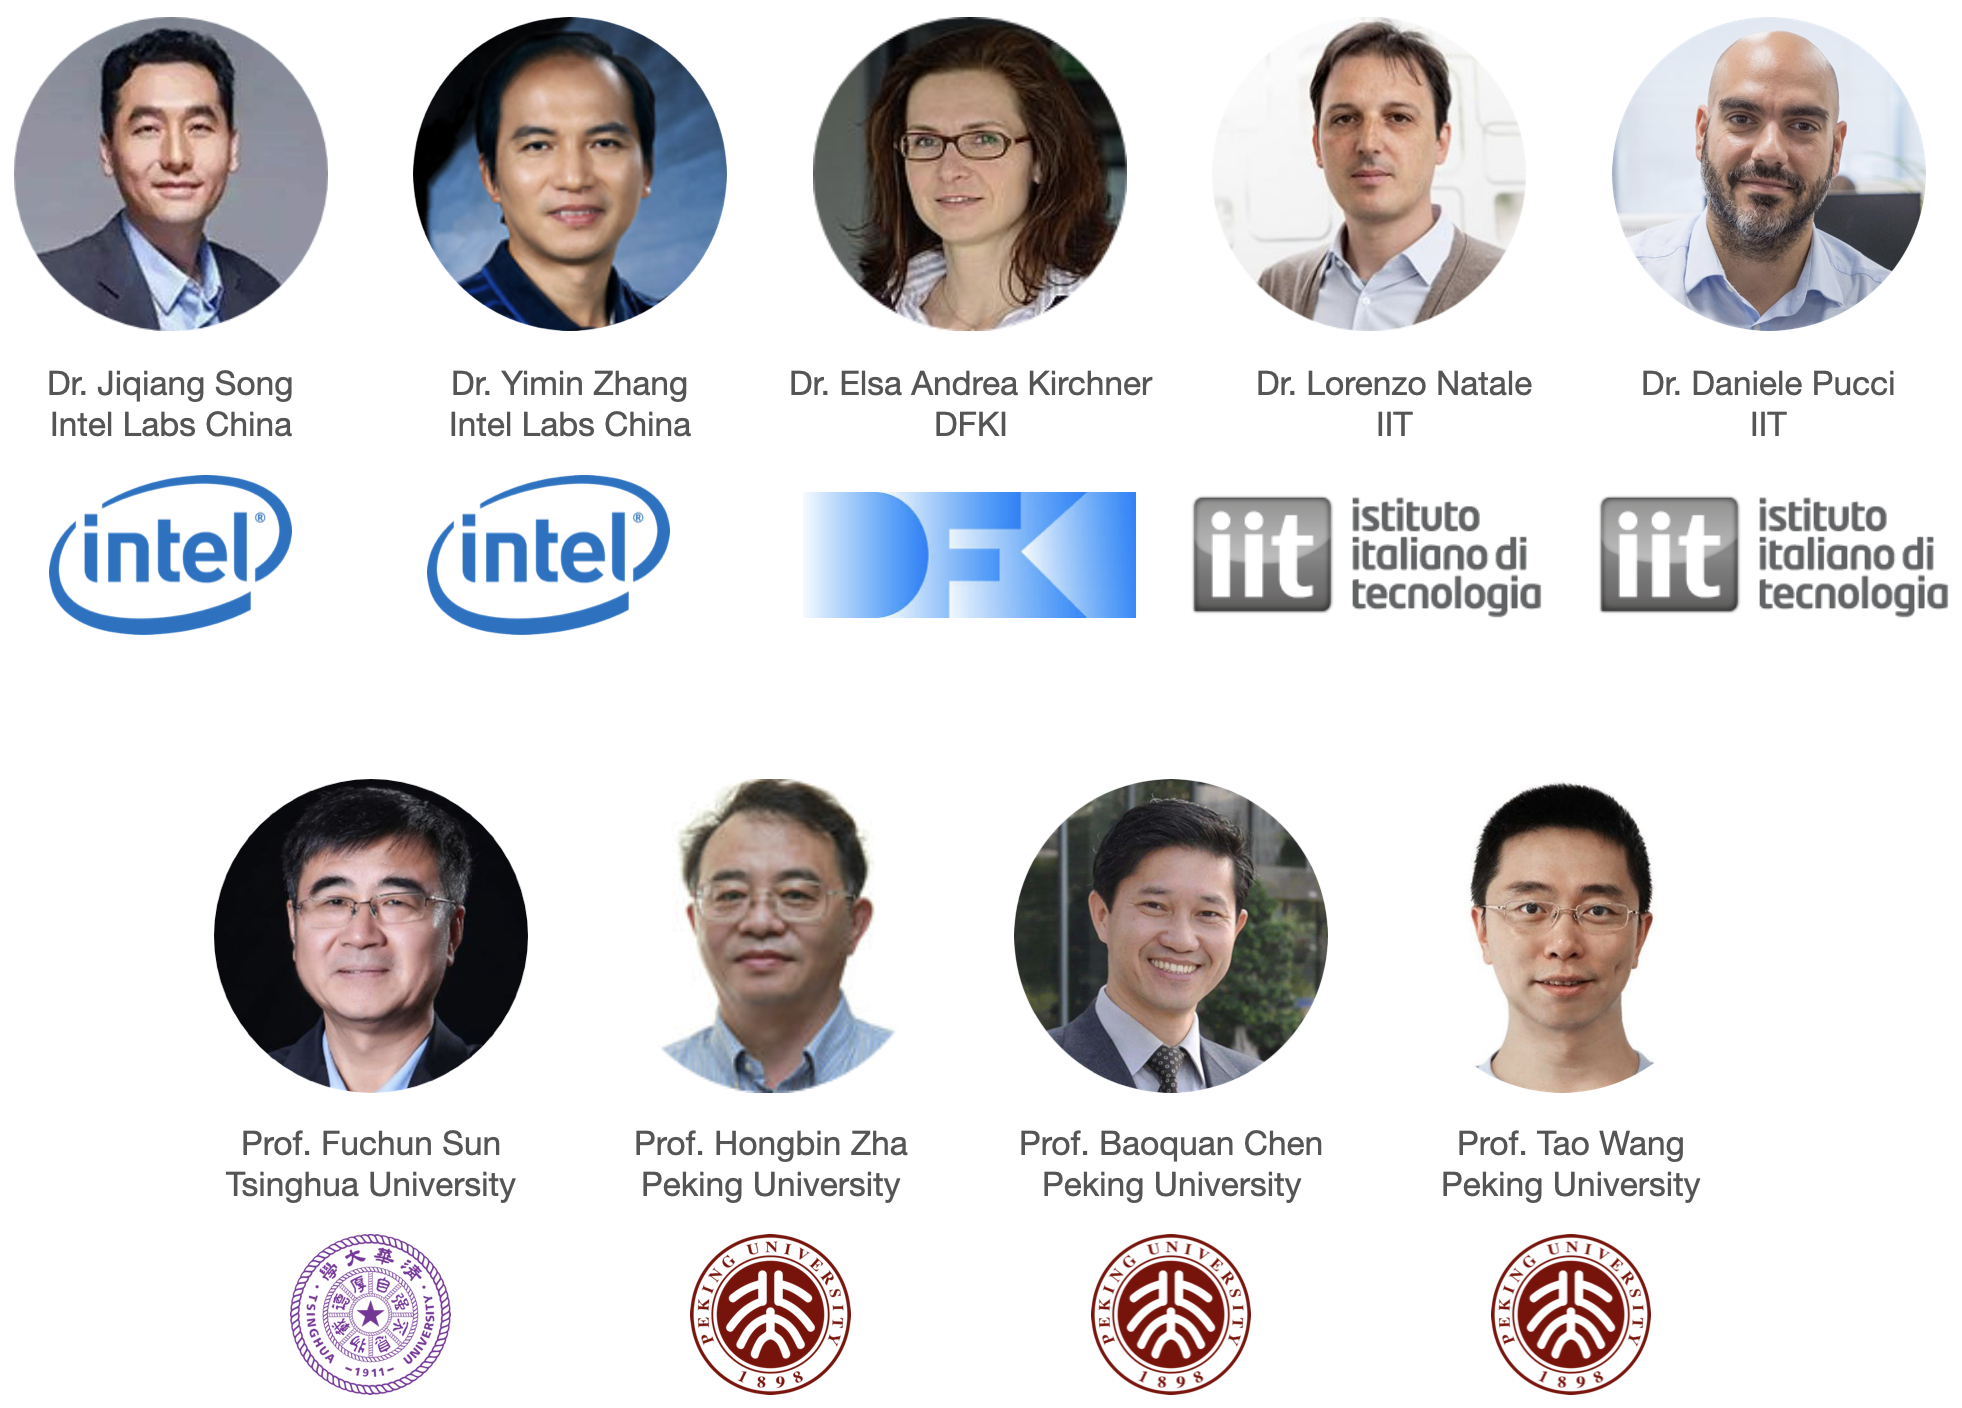
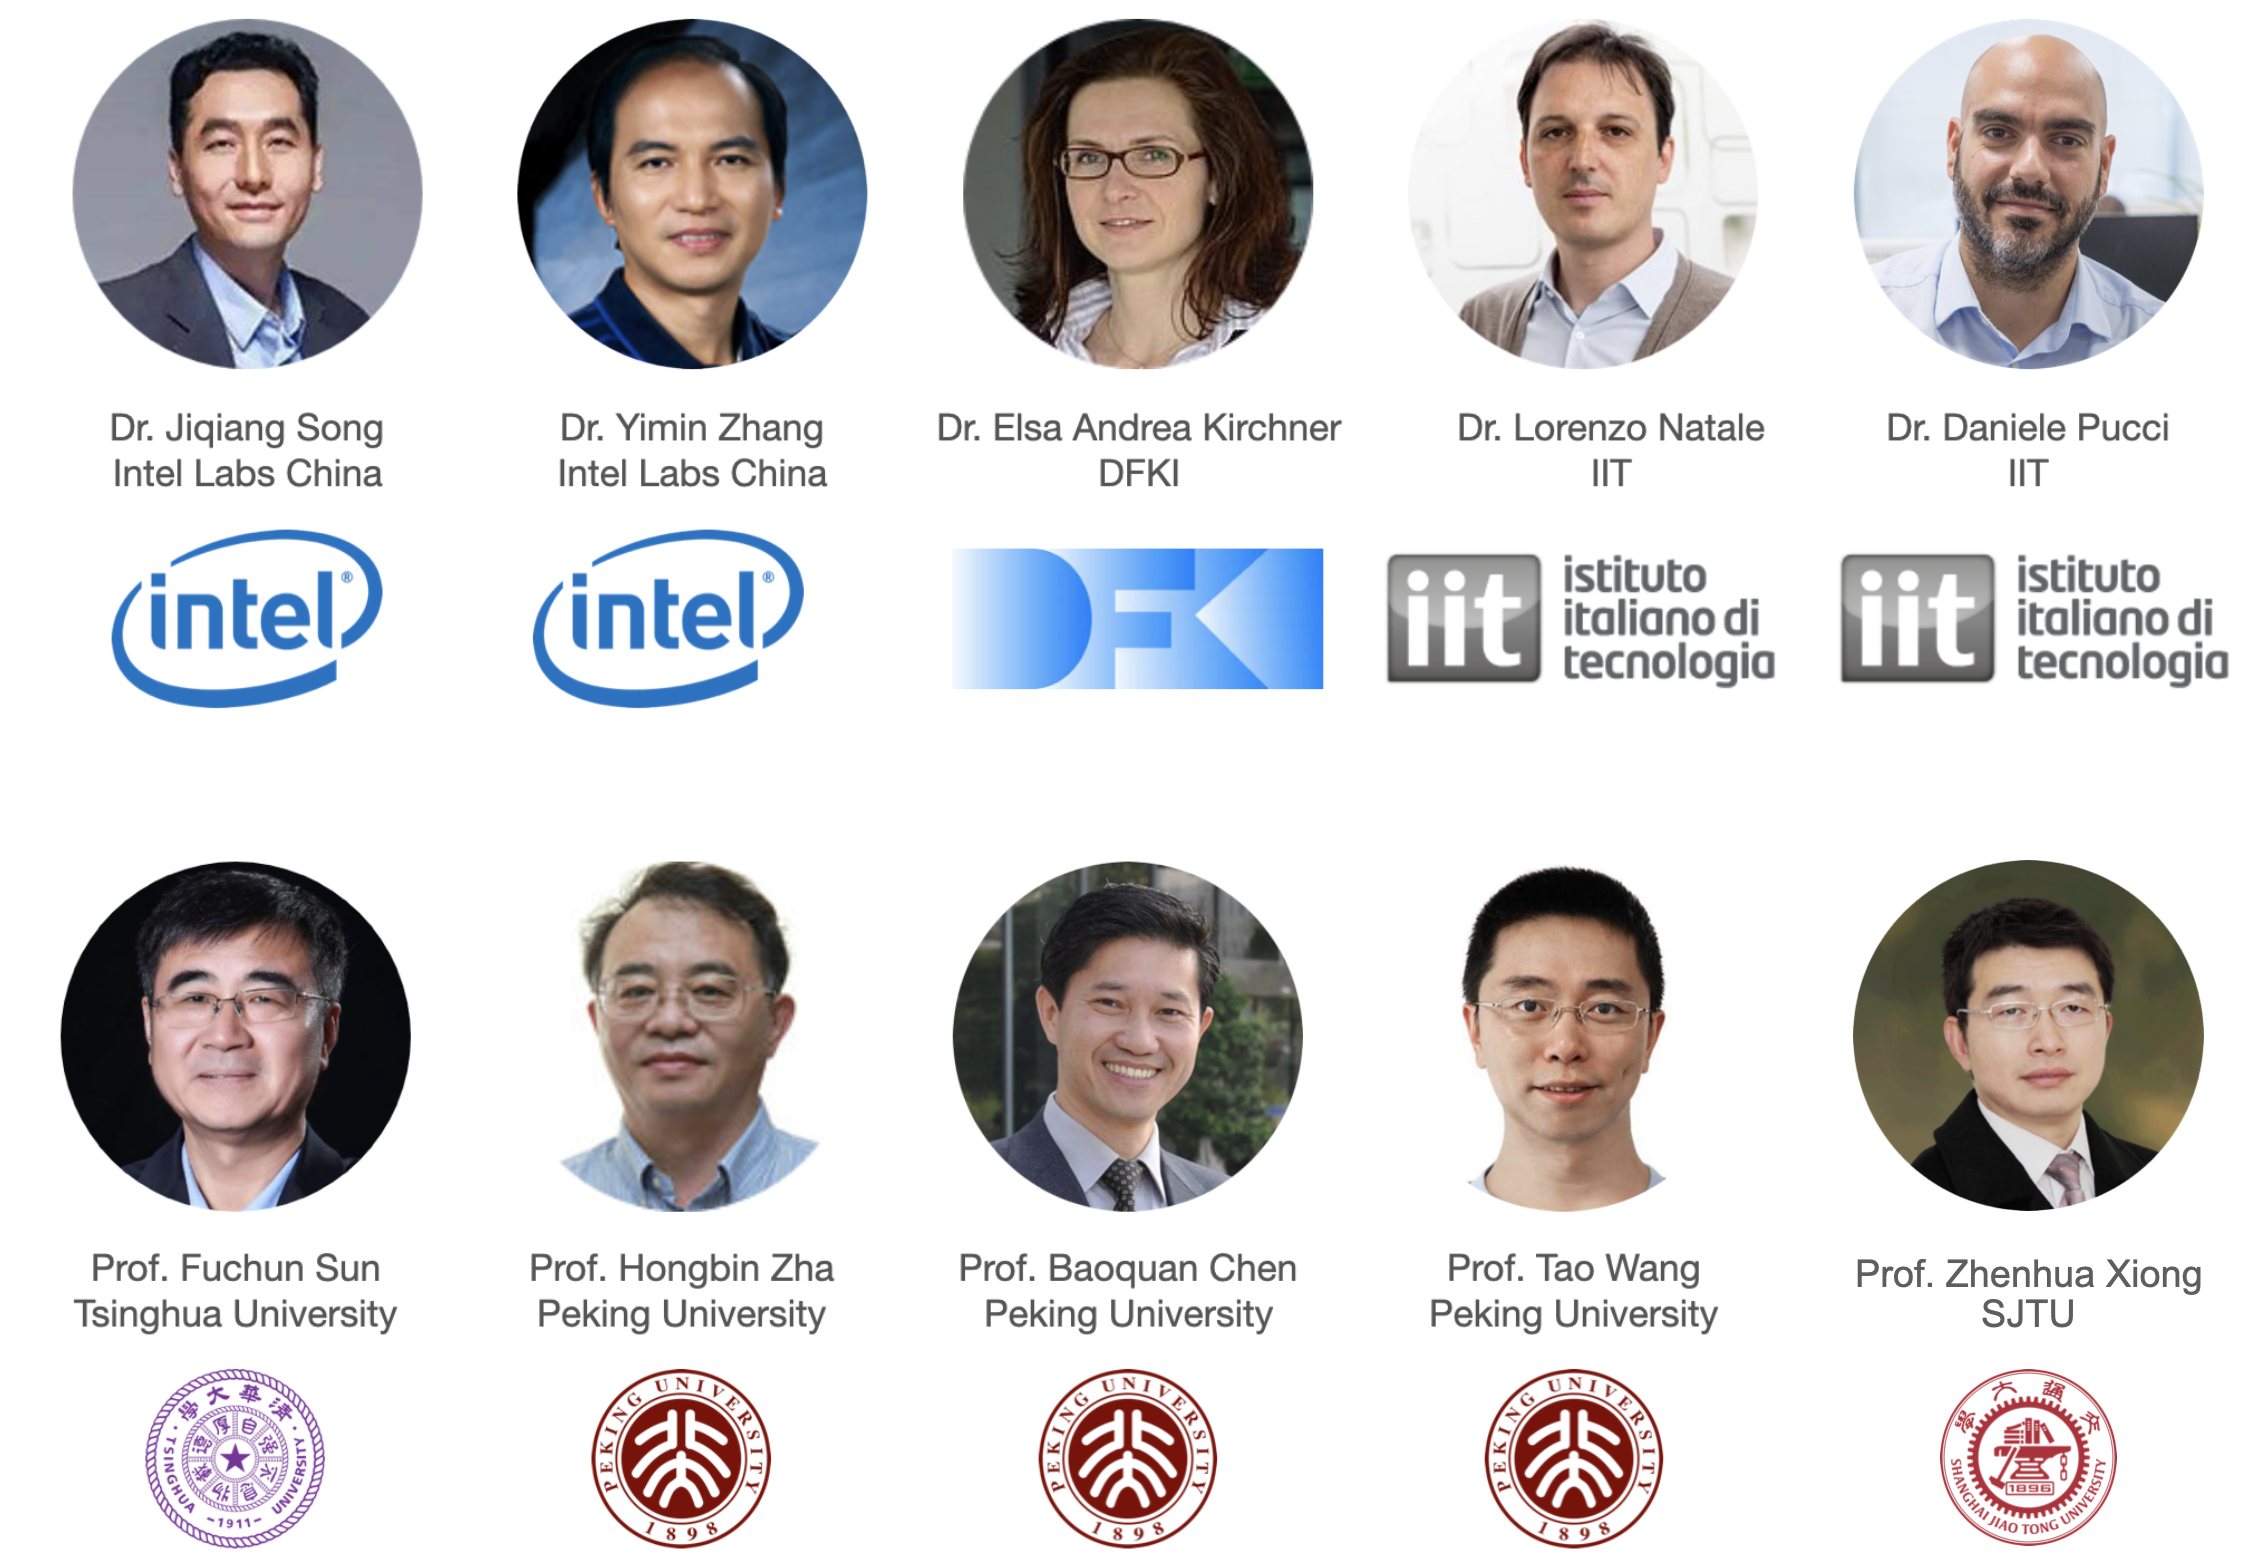
add new organization and organizer

diff --git a/index.html b/index.html
@@ -119,7 +119,7 @@ table.center {
 
 <div class="user-details">
 <h1>Co-Organizations</h1>
-<img src="https://indoor-robot-learning-challenge-2021.github.io/about/Co-Organizations.png" alt="Human-Robot-Computer" width="820">
+<img src="https://indoor-robot-learning-challenge-2021.github.io/co-organizations.png" alt="Human-Robot-Computer" width="820">
 </div>
 
 <div class="user-details">
